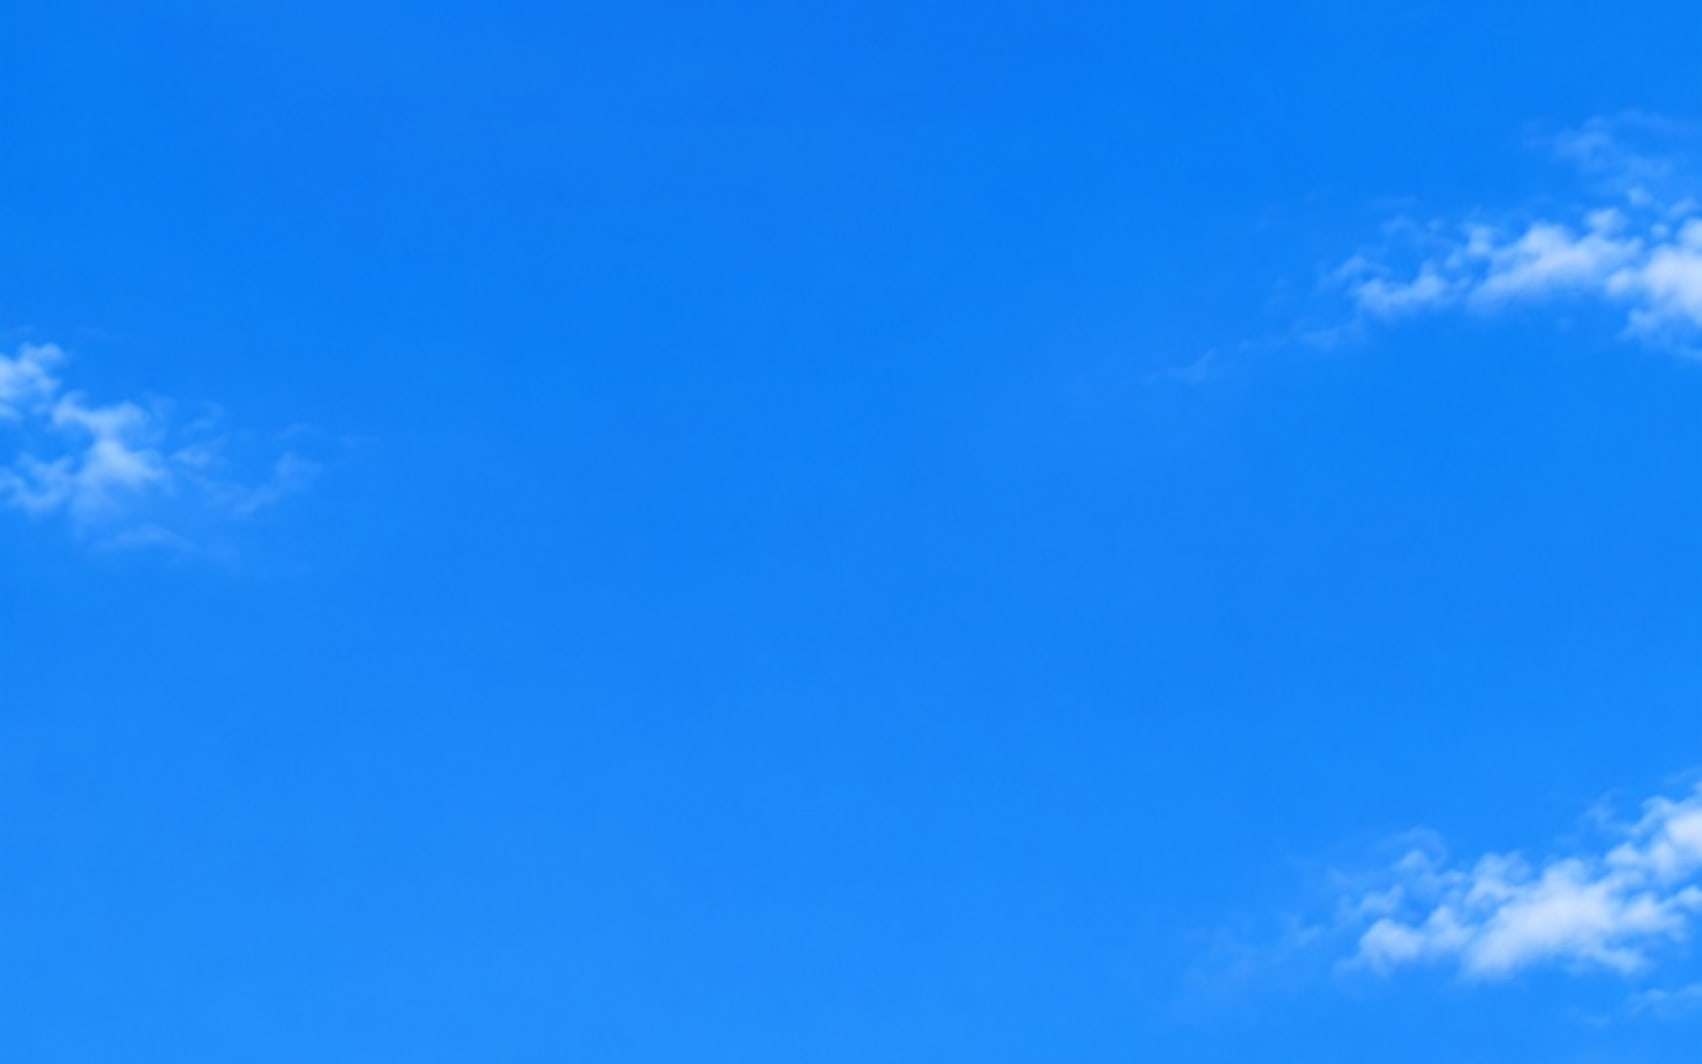
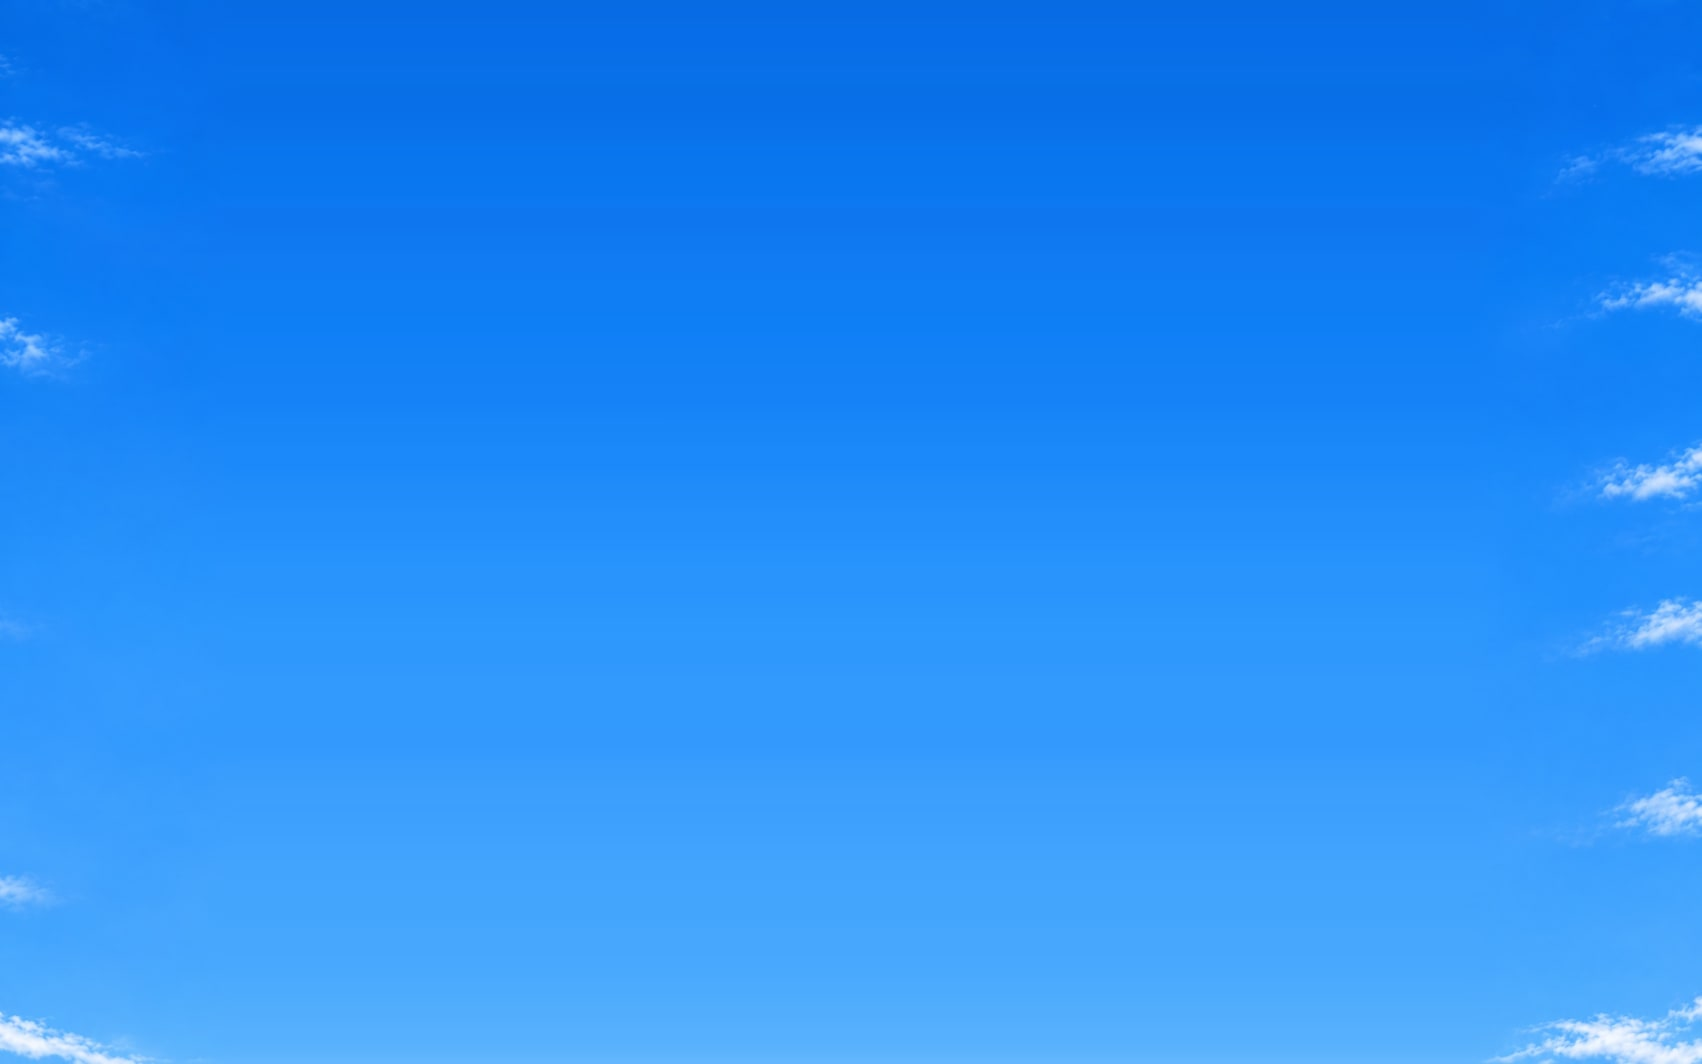
Desktop sky = the phone sky widened (same file, same rows: edges with the phone's clouds, the photo's own clear centre column between); chip rows fade only on a side with more to scroll; contrast gate skips text cut off by a scrolling row's edge; Social cost label in deep ink
Junid 12 Nov: 'the exact same background and the exact same box for the
computer version'. The band crop showed only the deep top of the phone photo;
now every desktop row carries the phone's exact blue top to bottom.

diff --git a/src/utils/chipRowFade.js b/src/utils/chipRowFade.js
@@ -1,0 +1,46 @@
+// ─── CHIP ROW EDGE FADE — which side has more to scroll ──────────────────────
+// Every chip / tab row is one line that scrolls sideways (src/styles/sky-chips.css).
+// Its edge fades ONLY on a side where there is more to see: this keeps
+// data-fade = "l" | "r" | "lr" (or nothing) on each row. Presentation only.
+// One passive capture-phase scroll listener, a resize listener, and a
+// MutationObserver debounced to 200ms for rows that mount later (a busy list
+// re-rendering does not re-query the page every frame).
+
+export const CHIP_ROW_SELECTOR = [
+  "[data-chip-row]",
+  '[role="tablist"]:not(.wht-tiles)',
+  '#root [style*="flex-wrap: wrap"]:has(> button[style*="border-radius: 999px"], > button[style*="border-radius: 20px"], > button[style*="border-radius: 99px"], > button[style*="border-radius: 100px"]):not(:has(> :not(button, [data-chip-count])))',
+].join(",");
+
+export function fadeFor(row) {
+  const max = row.scrollWidth - row.clientWidth;
+  if (max <= 2) return "";
+  return `${row.scrollLeft > 2 ? "l" : ""}${row.scrollLeft < max - 2 ? "r" : ""}`;
+}
+
+function apply(row) {
+  const v = fadeFor(row);
+  if ((row.dataset.fade || "") === v) return;
+  if (v) row.dataset.fade = v; else delete row.dataset.fade;
+}
+
+let started = false;
+export function startChipRowFade(doc = typeof document !== "undefined" ? document : null) {
+  if (started || !doc || typeof window === "undefined") return;
+  started = true;
+  let queued = false;
+  const all = () => {
+    queued = false;
+    let rows;
+    try { rows = doc.querySelectorAll(CHIP_ROW_SELECTOR); } catch { rows = doc.querySelectorAll("[data-chip-row], [role=tablist]"); }   // no :has()
+    rows.forEach(apply);
+  };
+  const queue = () => { if (!queued) { queued = true; setTimeout(all, 200); } };
+  doc.addEventListener("scroll", (e) => {
+    const t = e.target;
+    if (t && t.nodeType === 1 && t.matches) { try { if (t.matches(CHIP_ROW_SELECTOR)) apply(t); } catch { /* old engine */ } }
+  }, { capture: true, passive: true });
+  window.addEventListener("resize", queue, { passive: true });
+  if (typeof MutationObserver === "function") new MutationObserver(queue).observe(doc.body, { childList: true, subtree: true });
+  queue();
+}

diff --git a/src/styles/sky-chips.css b/src/styles/sky-chips.css
@@ -34,10 +34,9 @@ html[data-sky="on"] :is(
   overscroll-behavior-x: contain;
   scroll-padding-inline: 24px;
   touch-action: pan-x pan-y;
-  /* Edge fade: the row's own pixels fade out at both ends, so a chip running
-     off the edge reads as "more this way". */
-  -webkit-mask-image: linear-gradient(90deg, transparent 0, #000 14px, #000 calc(100% - 14px), transparent 100%);
-  mask-image: linear-gradient(90deg, transparent 0, #000 14px, #000 calc(100% - 14px), transparent 100%);
+  /* The edge fade is drawn ONLY on a side with more to scroll (data-fade,
+     kept by src/utils/chipRowFade.js) — a row at rest that fits shows every
+     chip whole and at full contrast. */
   padding-inline: 10px;
   min-width: 0;
   max-width: 100%;
@@ -61,3 +60,8 @@ html[data-sky="on"] :is(
 }
 /* The Warehouse status tiles (WarehouseTop.jsx, role=tablist) are a fixed
    one-row segmented grid by design and keep their grid. */
+
+/* Edge fade, per side, only while there is more to scroll that way. */
+html[data-sky="on"] [data-fade="r"] { -webkit-mask-image: linear-gradient(90deg, #000 calc(100% - 22px), transparent 100%); mask-image: linear-gradient(90deg, #000 calc(100% - 22px), transparent 100%); }
+html[data-sky="on"] [data-fade="l"] { -webkit-mask-image: linear-gradient(90deg, transparent 0, #000 22px); mask-image: linear-gradient(90deg, transparent 0, #000 22px); }
+html[data-sky="on"] [data-fade="lr"] { -webkit-mask-image: linear-gradient(90deg, transparent 0, #000 22px, #000 calc(100% - 22px), transparent 100%); mask-image: linear-gradient(90deg, transparent 0, #000 22px, #000 calc(100% - 22px), transparent 100%); }

diff --git a/src/components/social/GenerateCard.jsx b/src/components/social/GenerateCard.jsx
@@ -136,7 +136,7 @@ export default function GenerateCard({ products = [], onNotice, notice, onGenera
                           background: on ? "rgba(74,127,255,.08)" : undefined }}>
               <div style={{ display: "flex", justifyContent: "space-between", alignItems: "center", gap: 10 }}>
                 <span style={{ fontSize: 13.5, fontWeight: 700, color: on ? BLUE_L : "#fff" }}>{k.label}</span>
-                <span style={{ fontSize: 11, color: k.generates ? AMBER : GREEN, fontWeight: 700, whiteSpace: "nowrap" }}>
+                <span data-ink-deep="" style={{ fontSize: 11, color: k.generates ? AMBER : GREEN, fontWeight: 700, whiteSpace: "nowrap" }}>
                   {k.generates ? `~$${k.costUSD.toFixed(3)}` : "no image cost"}
                 </span>
               </div>

diff --git a/src/styles/sky-admin.css b/src/styles/sky-admin.css
@@ -247,3 +247,7 @@ html[data-sky="on"][data-sky-admin="on"] #root :is(
 /* The selected rail item: solid navy, its icon and count white. */
 html[data-sky="on"][data-sky-admin="on"] #root#root aside button[aria-pressed="true"] svg { stroke: #fff !important; color: #fff !important; }
 html[data-sky="on"][data-sky-admin="on"] #root#root aside button[aria-pressed="true"] span[style*="background"] { background: #fff !important; color: var(--sky-navy) !important; }
+
+/* Small status text that must clear 4.5:1 wherever it lands on the phone's
+   deeper sky (12 Nov): the deep ink. Opt-in per element. */
+html[data-sky="on"] #root#root [data-ink-deep] { color: var(--sky-ink-deep) !important; }

diff --git a/src/utils/chipRowFade.test.js b/src/utils/chipRowFade.test.js
@@ -1,0 +1,9 @@
+import { describe, it, expect } from "vitest";
+import { fadeFor } from "./chipRowFade.js";
+const row = (scrollWidth, clientWidth, scrollLeft) => ({ scrollWidth, clientWidth, scrollLeft });
+describe("chip row fade side", () => {
+  it("a row that fits never fades", () => { expect(fadeFor(row(300, 300, 0))).toBe(""); expect(fadeFor(row(301, 300, 0))).toBe(""); });
+  it("at rest with more to the right: right only", () => expect(fadeFor(row(600, 300, 0))).toBe("r"));
+  it("in the middle: both", () => expect(fadeFor(row(600, 300, 150))).toBe("lr"));
+  it("at the end: left only", () => expect(fadeFor(row(600, 300, 300))).toBe("l"));
+});

diff --git a/src/main.jsx b/src/main.jsx
@@ -5,6 +5,8 @@ import "./styles/sky-theme.css";
 import "./styles/sky-admin.css";
 import "./styles/sky-stock.css";
 import "./styles/sky-chips.css";
+import { startChipRowFade } from "./utils/chipRowFade.js";
+startChipRowFade();
 import App from "./App.jsx";
 import { startUpdateChecker } from "./update/updateChecker.js";
 import { applyPushDeepLink } from "./push/deepLink.js";

diff --git a/src/dev/skyHarness.jsx b/src/dev/skyHarness.jsx
@@ -10,6 +10,8 @@
 import "../styles/sky.css";
 import "../styles/sky-theme.css";
 import "../styles/sky-chips.css";
+import { startChipRowFade } from "../utils/chipRowFade.js";
+startChipRowFade();
 import { installZoomLock } from "../device/zoomLock.js";
 import { useEffect, useMemo, useState } from "react";
 import { createRoot } from "react-dom/client";

diff --git a/src/dev/skyApp.jsx b/src/dev/skyApp.jsx
@@ -7,6 +7,8 @@ import "../styles/sky-theme.css";
 import "../styles/sky-admin.css";
 import "../styles/sky-stock.css";
 import "../styles/sky-chips.css";
+import { startChipRowFade } from "../utils/chipRowFade.js";
+startChipRowFade();
 import { createRoot } from "react-dom/client";
 import { database } from "../firebase.js";
 
